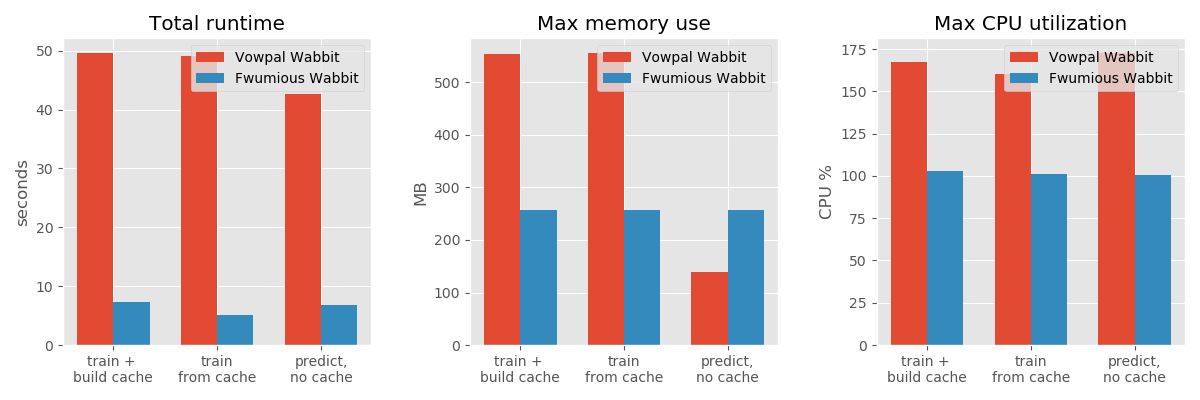
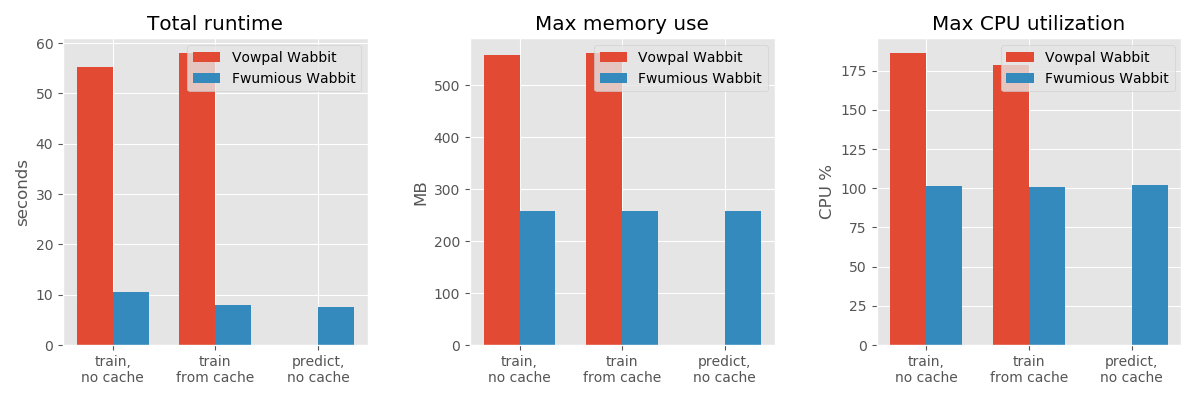
latest benchmark results

diff --git a/BENCHMARK.md b/BENCHMARK.md
@@ -14,18 +14,18 @@ here are the results for 3 runs for each scenario, taking mean values:
 ![benchmark results](benchmark_results.png)
 Scenario|Runtime (seconds)|Memory (MB)|CPU %
 ----|----:|----:|----:
-vw train, no cache|49.61 | 555 | 167.17
-fw train, no cache|7.33 | 257 | 102.70
-vw train, using cache|49.06 | 556 | 160.30
-fw train, using cache|5.08 | 258 | 101.33
-vw predict, no cache|42.60 | 139 | 172.70
-fw predict, no cache|6.79 | 257 | 100.80
+vw train, no cache|55.21 | 558 | 186.27
+fw train, no cache|10.58 | 258 | 101.57
+vw train, using cache|58.04 | 562 | 178.77
+fw train, using cache|7.90 | 258 | 100.73
+vw predict, no cache|0.01 | 1 | 0.00
+fw predict, no cache|7.63 | 258 | 101.90
 
 ### Model equivalence
 loss values for the test set:
 
 ```
-Vowpal Wabbit predictions loss: 0.6370
+Vowpal Wabbit predictions loss: 0.7167
 Fwumious Wabbit predictions loss: 0.6370
 ```
 
@@ -44,18 +44,18 @@ herbivores always eat plants (and only plants), and carnivores always eat meat (
 
 we name animals conveniently using the pattern 'diet-id', for example 'Herbivore-1234' and 'Carnivore-5678'
 and the food similarly as 'food_type-id' - for example 'Plant-678' and 'Meat-234' so the expected label for a record is always obvious.
-there are 1,000 animal types, and 1,000 food types.
+there are 1,000 animal types, and 1,000 food types. we generate additional 10 random features,
+to make the dataset dimensions a bit more realistic.
 
 see for example the first 5 lines from the train dataset (after some pretty-printing):
 
-label|animal|food
-----:|------|----
-
--1 |A Herbivore-65 |B Meat-120 |C C8117 |D D7364 |E E7737 |F F6219 |G G3439 |H H1537 |I I7993 |J J464 |K K6386 |L L7090
-1 |A Carnivore-272 |B Meat-184 |C C3748 |D D9685 |E E1674 |F F5200 |G G501 |H H365 |I I416 |J J8870 |K K150 |L L6245
-1 |A Carnivore-135 |B Meat-227 |C C7174 |D D8123 |E E9058 |F F3818 |G G5663 |H H3782 |I I3584 |J J7530 |K K4747 |L L352
--1 |A Herbivore-47 |B Meat-644 |C C4856 |D D1980 |E E5450 |F F8205 |G G6915 |H H8318 |I I3110 |J J4970 |K K4655 |L L9626
--1 |A Carnivore-603 |B Plant-218 |C C565 |D D7868 |E E3977 |F F6623 |G G6788 |H H2834 |I I6014 |J J8991 |K K6139 |L L1416
+label|animal|food|feat_2|feat_3|feat_4|feat_5|feat_6|feat_7|...
+----:|------|----|----|----|----|----|----|----|----
+-1 |A Herbivore-65 |B Meat-120 |C C8117 |D D7364 |E E7737 |F F6219 |G G3439 |H H1537 |...
+1 |A Carnivore-272 |B Meat-184 |C C3748 |D D9685 |E E1674 |F F5200 |G G501 |H H365 |...
+1 |A Carnivore-135 |B Meat-227 |C C7174 |D D8123 |E E9058 |F F3818 |G G5663 |H H3782 |...
+-1 |A Herbivore-47 |B Meat-644 |C C4856 |D D1980 |E E5450 |F F8205 |G G6915 |H H8318 |...
+-1 |A Carnivore-603 |B Plant-218 |C C565 |D D7868 |E E3977 |F F6623 |G G6788 |H H2834 |...
 
 
 ### Feature engineering
@@ -80,14 +80,14 @@ or, if you just want the numbers with less dependencies run:
 
 ### CPU Info
 ```
-Physical cores: 4
-Total cores: 8
-Current Frequency: 4051.73Mhz
+Physical cores: 28
+Total cores: 56
+Current Frequency: 1047.28Mhz
 ```
 ### System Information
 ```
 System: Linux
-Version: #52-Ubuntu SMP Thu Sep 10 10:58:49 UTC 2020
+Version: #102-Ubuntu SMP Mon May 11 10:07:26 UTC 2020
 Machine: x86_64
 Processor: x86_64
 ```
